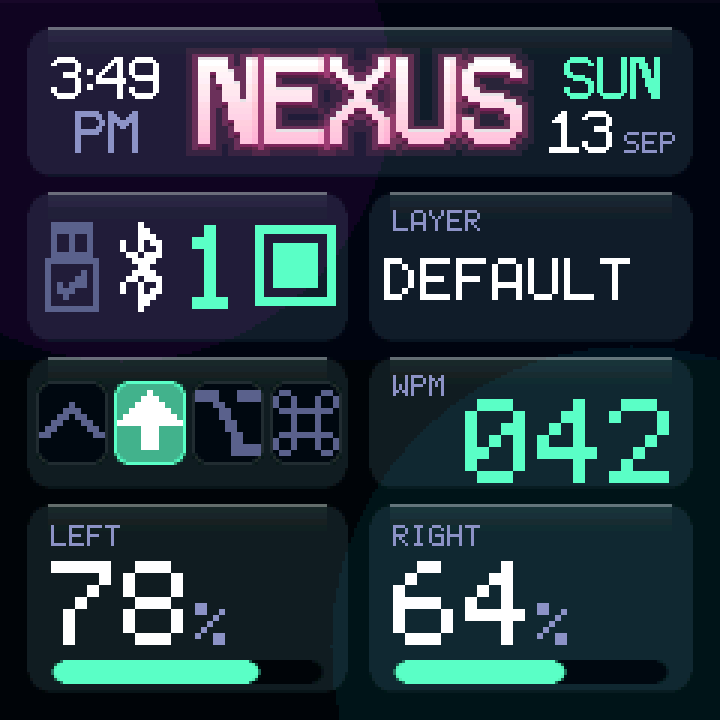
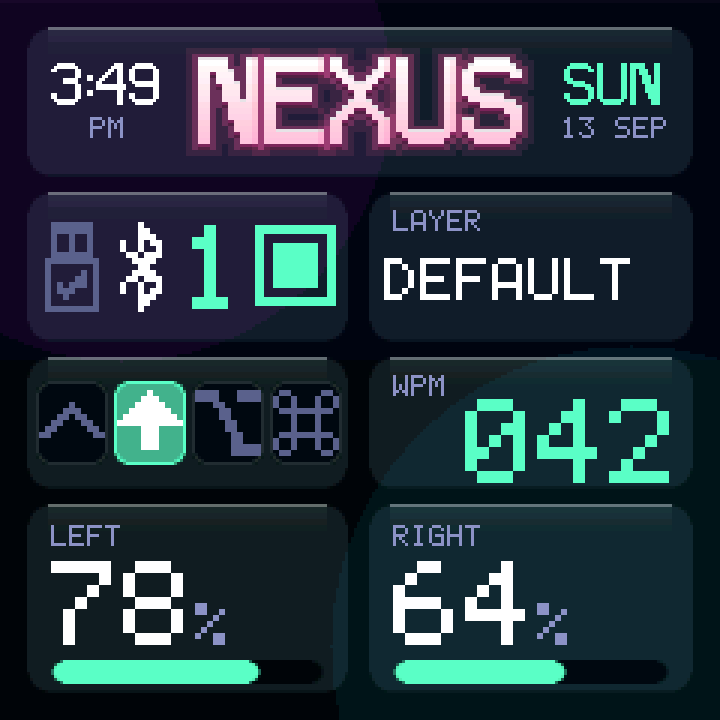
fix: lighter plate clock - bold time and weekday, small AM/PM and date
Four rows in the bold face crowded the name. The time and the weekday stay
in the display face at 1x, since those are what you read from across the
desk; AM/PM and the date go back to caption type under them. The rows
re-centre on the name for the shorter block, the room check now covers the
caption date as well as the weekday, and home.c no longer needs strchr.

Changed region(s): [[0.7639, 0.0611, 0.9472, 0.2139], [0.0611, 0.0611, 0.2139, 0.2139]]

diff --git a/src/ui/home.c b/src/ui/home.c
@@ -19,7 +19,6 @@
 #include <nexus/theme.h>
 #include <nexus/widgets.h>
 #include <zephyr/kernel.h>
-#include <string.h>
 
 #include "../nexus_priv.h"
 
@@ -279,19 +278,21 @@ static void draw_link(const struct nexus_status *st)
  * the left, the weekday over the date on the right, each column centred in
  * the space between the plate's edge and the wordmark's glow.
  *
- * In the display face at 1x - 14px, bold two-pixel stems - rather than
- * caption type. The panel is about 23mm across, so 14px is 1.4mm, which reads
- * from about three feet; caption type is half that and reads from nowhere
- * much. It is also the largest that fits: "12:59" is 47px, and the space
- * beside a 2x name is 53. Only the month stays small, beside its day.
+ * The time and the weekday are the display face at 1x - 14px, bold two-pixel
+ * stems. The panel is about 23mm across, so that is 1.4mm, which reads from
+ * about three feet; caption type is half that. It is also the largest that
+ * fits: "12:59" is 47px, and the space beside a 2x name is 53. AM/PM and the
+ * date are caption type under them: all four rows in the bold face was too
+ * much ink crowded against the name, and those two are the ones you lean in
+ * for anyway.
  *
  * Drawn only once a companion has sent a time, and only while the name leaves
  * room; until then, and in every build without the host link, the plate is
  * exactly the name. It stays after the companion stops, because the clock
  * stays true while the dongle has power.
  */
-#define PLATE_ROW1 (BRAND_Y + 10) /* the two rows centre on the name */
-#define PLATE_ROW2 (BRAND_Y + 28)
+#define PLATE_ROW1 (BRAND_Y + 12) /* 14 + 4 + 7 tall, centred on the name */
+#define PLATE_ROW2 (BRAND_Y + 30)
 
 /* x for a run @p w wide, centred between @p a and @p b. */
 static int centred(int a, int b, int w)
@@ -320,10 +321,11 @@ static bool plate_clock_shown(void)
 		return false;
 	}
 	plate_spaces(&l1, &r0);
+	int right = COL_L + NEXUS_CONTENT_W - r0;
+
 	return nexus_host_numerals_w("00:00", 1) + 6 <= l1 - COL_L &&
-	       nexus_host_numerals_w("00", 1) + 4 +
-			       gfx_text_w("MMM", NEXUS_TXT_CAPTION) + 6 <=
-		       COL_L + NEXUS_CONTENT_W - r0;
+	       gfx_face_w("WED", 1) + 6 <= right &&
+	       gfx_text_w("00 MMM", NEXUS_TXT_CAPTION) + 6 <= right;
 }
 
 static void draw_host_clock(void)
@@ -346,8 +348,9 @@ static void draw_host_clock(void)
 	nexus_host_numerals(centred(l0, l1, nexus_host_numerals_w(hm, 1)),
 			    PLATE_ROW1, hm, 1, t->value);
 	if (suffix) {
-		gfx_face_text(centred(l0, l1, gfx_face_w(suffix, 1)), PLATE_ROW2,
-			      suffix, 1, t->caption, GFX_OPAQUE);
+		gfx_text(centred(l0, l1, gfx_text_w(suffix, NEXUS_TXT_CAPTION)),
+			 PLATE_ROW2, suffix, NEXUS_TXT_CAPTION, t->caption,
+			 GFX_OPAQUE);
 	}
 
 	uint32_t day = nexus_host_day();
@@ -361,24 +364,10 @@ static void draw_host_clock(void)
 	char yy[5];
 
 	nexus_host_date_text(day, wd, dm, yy);
-
-	/* "13 SEP" -> the day in the face, the month small on its baseline. */
-	char *mon = strchr(dm, ' ');
-
-	if (mon == NULL) {
-		return;
-	}
-	*mon++ = '\0';
-
-	int dw = nexus_host_numerals_w(dm, 1) + 4 +
-		 gfx_text_w(mon, NEXUS_TXT_CAPTION);
-	int x;
-
 	gfx_face_text(centred(r0, r1, gfx_face_w(wd, 1)), PLATE_ROW1, wd, 1,
 		      t->accent, GFX_OPAQUE);
-	x = nexus_host_numerals(centred(r0, r1, dw), PLATE_ROW2, dm, 1, t->value);
-	gfx_text(x + 3, PLATE_ROW2 + gfx_face_h(1) - gfx_text_h(NEXUS_TXT_CAPTION),
-		 mon, NEXUS_TXT_CAPTION, t->caption, GFX_OPAQUE);
+	gfx_text(centred(r0, r1, gfx_text_w(dm, NEXUS_TXT_CAPTION)), PLATE_ROW2,
+		 dm, NEXUS_TXT_CAPTION, t->caption, GFX_OPAQUE);
 }
 
 /* The minute and the day the plate last showed, or UINT32_MAX for no clock. */

diff --git a/tests/host/test_host_link.py b/tests/host/test_host_link.py
@@ -711,10 +711,12 @@ def home_plate():
 
     flat = re.sub(r'\s+', ' ', draw)
     ok('PLATE_ROW1, hm, 1, t->value)' in flat
-       and 'PLATE_ROW1, wd, 1,' in flat and 'PLATE_ROW2, suffix, 1,' in flat
-       and 'PLATE_ROW2, dm, 1, t->value)' in flat,
-       'time, weekday, AM/PM and the day are the display face at 1x: 14px, '
-       'bold')
+       and 'PLATE_ROW1, wd, 1,' in flat,
+       'the time and the weekday are the display face at 1x: 14px, bold')
+    ok('PLATE_ROW2, suffix, NEXUS_TXT_CAPTION' in flat
+       and 'PLATE_ROW2, dm, NEXUS_TXT_CAPTION' in flat,
+       'AM/PM and the date are caption type under them - four bold rows '
+       'crowded the name')
     ok(arcmin(14, 914) >= 5,
        '14px is %.1fmm: %.1f arcmin at three feet, readable (was %.1f)'
        % (14 * mm_per_px, arcmin(14, 914), arcmin(7, 914)))
@@ -738,18 +740,21 @@ def home_plate():
         ok(x >= l0 + 3 and x + w <= l1 - 3,
            '"%s" spans %d-%d, between the plate edge (%d) and the glow (%d)'
            % (s, x, x + w, l0, l1))
-    dw = num_w('30') + 4 + text_w('SEP', 1)
-    for w, what in ((num_w('WED'), 'WED'), (dw, '30 SEP')):
+    for w, what in ((num_w('WED'), 'WED'), (text_w('30 SEP', 1), '30 SEP')):
         x = centred(r0, r1, w)
         ok(x >= r0 + 3 and x + w <= r1 - 3,
            '"%s" spans %d-%d, between the glow (%d) and the plate edge (%d)'
            % (what, x, x + w, r0, r1))
-    ok(row1 >= brand_y + 8 and row2 + 14 <= brand_y + brand_h - 6
+    ok(row1 >= brand_y + 8 and row2 + 7 <= brand_y + brand_h - 6
        and row2 >= row1 + 14 + 3,
        'rows at y %d and %d, inside the plate and clear of each other'
        % (row1, row2))
-    ok(abs((row1 + row2 + 14) / 2 - (brand_y + brand_h / 2)) <= 1,
+    ok(abs((row1 + row2 + 7) / 2 - (brand_y + brand_h / 2)) <= 1,
        'and centred on it, as the name is')
+    shown = body(home, 'static bool plate_clock_shown(void)\n{')
+    ok('gfx_face_w("WED", 1) + 6 <= right' in shown
+       and 'gfx_text_w("00 MMM", NEXUS_TXT_CAPTION) + 6 <= right' in shown,
+       'the room check covers both right-hand rows, not just the weekday')
 
     print('\nThe jiggler dot')
     flags = body(home, 'static void draw_flags(const struct nexus_status *st)'

diff --git a/scripts/render_ui.py b/scripts/render_ui.py
@@ -546,10 +546,11 @@ def face_text(cv, x, y, s, scale, c):
 
 
 def home_plate_clock(cv, t, clock, suffix, date):
-    """draw_host_clock() in home.c: time and date either side of the name,
-    in the display face at 1x. @p date is (weekday, "13 SEP") or None."""
+    """draw_host_clock() in home.c: time and date either side of the name.
+    Time and weekday in the display face at 1x, AM/PM and date in caption
+    type under them. @p date is (weekday, "13 SEP") or None."""
     K = HOME
-    row1, row2 = K['BRAND_Y'] + 10, K['BRAND_Y'] + 28
+    row1, row2 = K['BRAND_Y'] + 12, K['BRAND_Y'] + 30
     half = face_w('NEXUS', 2) // 2 + 4
     l0, l1 = K['COL_L'], W // 2 - half
     r0, r1 = W // 2 + half, K['COL_L'] + CONTENT_W
@@ -560,15 +561,13 @@ def home_plate_clock(cv, t, clock, suffix, date):
     numerals(cv, centred(l0, l1, numerals_w(clock, 1)), row1, clock, 1,
              t['value'])
     if suffix:
-        face_text(cv, centred(l0, l1, face_w(suffix, 1)), row2, suffix, 1,
-                  t['caption'])
+        cv.text(centred(l0, l1, text_w(suffix, CAPTION)), row2, suffix,
+                CAPTION, t['caption'])
     if date:
         wd, dm = date
-        day, mon = dm.split(' ')
-        dw = numerals_w(day, 1) + 4 + text_w(mon, CAPTION)
         face_text(cv, centred(r0, r1, face_w(wd, 1)), row1, wd, 1, t['accent'])
-        x = numerals(cv, centred(r0, r1, dw), row2, day, 1, t['value'])
-        cv.text(x + 3, row2 + FACE_H - 7, mon, CAPTION, t['caption'])
+        cv.text(centred(r0, r1, text_w(dm, CAPTION)), row2, dm, CAPTION,
+                t['caption'])
 
 
 def home(cv, t, st, clock=None, suffix=None, date=None):

diff --git a/docs/ui.md b/docs/ui.md
@@ -76,9 +76,9 @@ the word; nothing sits under it, deliberately.
 
 With the [host link](host-link.md) on, once a companion has sent the time the
 plate carries it either side of the name: the time over AM/PM on the left, the
-weekday over the date on the right. They are the display face at 1x -- 14px,
-bold, the largest that fits beside the name, and readable from about three
-feet -- with only the month small. The name and everything else on the screen
+weekday over the date on the right. The time and weekday are the display face
+at 1x -- 14px, bold, readable from about three feet -- with AM/PM and the date
+in caption type under them, so the plate stays light around the name. The name and everything else on the screen
 stay exactly where they are; before a time arrives, and in every build without
 the host link, the plate is the name alone. The clock stays when the companion
 stops. With the jiggler built in, its dot tucks into the plate's top corner
